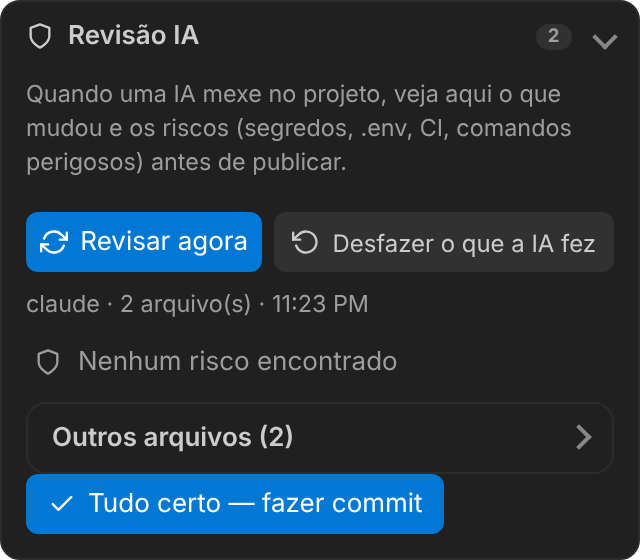
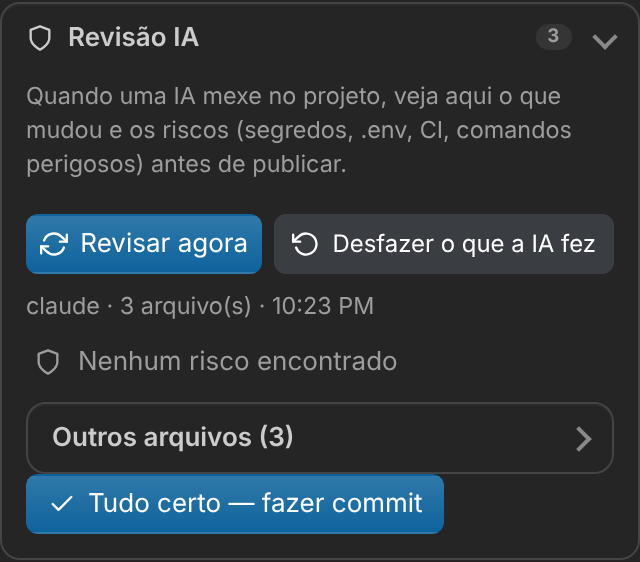
feat(New): Img resolvido

diff --git a/README.md b/README.md
@@ -112,6 +112,10 @@ O painel tem animações suaves; se preferir algo mais leve, desligue em **Confi
   <img src="docs/images/panel-ai-clean.png" alt="Aba Revisão IA sem riscos encontrados, com os botões Desfazer e Tudo certo" width="320">
 </p>
 
+<p align="center">
+  <img src="docs/images/ai-guard.gif" alt="Animação do AI Guard: o selo de riscos aparece na aba IA e a revisão lista os problemas encontrados" width="320">
+</p>
+
 ### Pontos de restauração: o botão de desfazer do seu projeto
 
 Vai pedir para uma IA refatorar o projeto, ou fazer uma mudança grande por conta própria? Antes, clique em **Salvar ponto de restauração**. A extensão guarda uma "foto" dos seus arquivos (os alterados e os novos, respeitando o `.gitignore`) sem mexer em nada: nem nos arquivos, nem na branch, nem no que você marcou para o commit.
